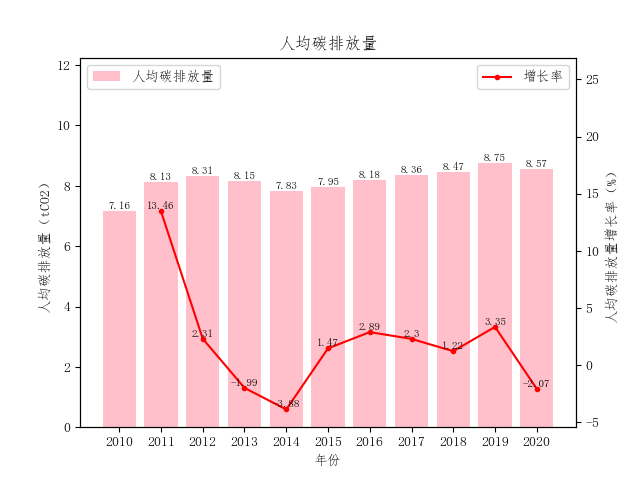
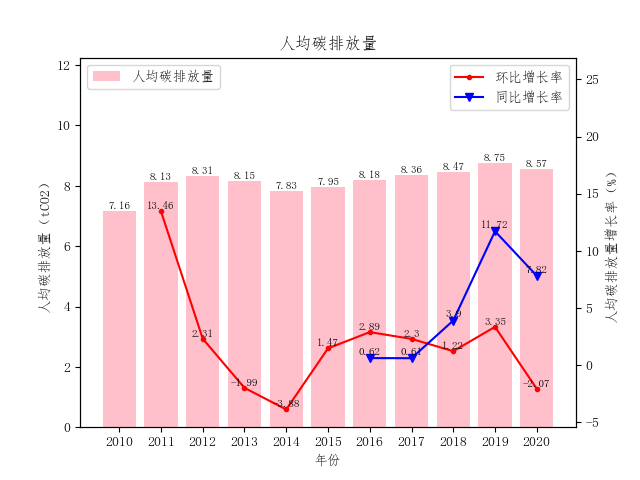
add year-on-year

diff --git a/D.py b/D.py
@@ -19,9 +19,11 @@ def read_population_and_GDP(df):
 
 # 人口和GDP相关图表绘制
 # 数据来自《经济与能源》2-10行
-def plot_population(population, rate, index):
-    rate *= 100
+def plot_population(population, qoq, yoy, index):
+    qoq *= 100
+    yoy *= 100
     x = range(2010, 2021)
+    x2 = range(2016, 2021)
     titles = ['常驻人口及增长率', 'GDP及增长率', '人均GDP及增长率', '能源消费量总量', '碳排放量总量', '人均碳排放量']
     labels = ['常驻人口', 'GDP', '人均GDP', '能源消费量', '碳排放量', '人均碳排放量']
     left_labels = ['常驻人口（万人）', 'GDP（亿元）', '人均GDP（万元）', '能源消费量（万tce）', '碳排放量（万tCO2）',
@@ -45,12 +47,15 @@ def plot_population(population, rate, index):
     ax2 = plt.twinx()
     ax2.set_ylabel(right_labels[index])
     # 设置坐标轴范围
-    mask = np.ma.masked_invalid(rate)
-    ax2.set_ylim([min(0., 1.4 * np.min(mask)), 2 * np.max(mask)])
-    plt.plot(x, mask, marker='.', c='r', label='增长率')
+    mask = np.ma.masked_invalid(qoq)
+    ax2.set_ylim(min(0., 1.4 * np.min(mask), 1.4 * np.min(yoy)), max(2 * np.max(mask), 2 * np.max(yoy)))
+    plt.plot(x, mask, marker='.', c='r', label='环比增长率')
+    plt.plot(x2, yoy, marker='v', c='b', label='同比增长率')
     # 显示数字
-    for a, b in zip(x, rate):
+    for a, b in zip(x, qoq):
         plt.text(a, b, round(b, 2), ha='center', va='bottom', fontsize=8)
+    for a, b in zip(x2, yoy):
+        plt.text(a, b + 0.1, round(b, 2), ha='center', va='bottom', fontsize=8)
     # 在右侧显示图例
     plt.legend(loc="upper right")
 
@@ -181,25 +186,27 @@ if __name__ == '__main__':
     df_economy_and_energy = read_sheet(file_path, '经济与能源')  # 表《经济与能源》中的数据
     df_carbon_emission = read_sheet(file_path, '碳排放')  # 表《碳排放》中的数据
 
-    population_and_GDP = read_population_and_GDP(df_economy_and_energy)
+    population_and_GDP = read_population_and_GDP(df_economy_and_energy).astype(np.float64)
     # 补充2009年常驻人口7810.27万人
-    pre_population = np.insert(population_and_GDP[0][:-1].astype(np.float64), 0, 7810.27)
-    plot_population(population_and_GDP[0], (population_and_GDP[0].astype(np.float64) - pre_population) / pre_population,
-                    0)
+    pre_population = np.insert(population_and_GDP[0][:-1], 0, 7810.27)
+    plot_population(population_and_GDP[0], (population_and_GDP[0] - pre_population) / pre_population,
+                    (population_and_GDP[0][6:] - population_and_GDP[0][1:6]) / population_and_GDP[0][1:6], 0)
 
     # 补充2009年DGP总量34471.70亿元
-    pre_GDP = np.insert(population_and_GDP[1][:-1].astype(np.float64), 0, 34471.70)
-    plot_population(population_and_GDP[1], (population_and_GDP[1].astype(np.float64) - pre_GDP) / pre_GDP, 1)
+    pre_GDP = np.insert(population_and_GDP[1][:-1], 0, 34471.70)
+    plot_population(population_and_GDP[1], (population_and_GDP[1] - pre_GDP) / pre_GDP,
+                    (population_and_GDP[1][6:] - population_and_GDP[1][1:6]) / population_and_GDP[1][1:6], 1)
 
     GDP_by_person = population_and_GDP[1].astype(np.float64) / population_and_GDP[0].astype(np.float64)
     pre_GDP_by_person = np.insert(GDP_by_person[:-1], 0, 34471.70 / 7810.27)
-    plot_population(GDP_by_person, (GDP_by_person - pre_GDP_by_person) / pre_GDP_by_person, 2)
+    plot_population(GDP_by_person, (GDP_by_person - pre_GDP_by_person) / pre_GDP_by_person,
+                    (GDP_by_person[6:] - GDP_by_person[1:6]) / GDP_by_person[1:6], 2)
 
-    energy = read_energy(df_economy_and_energy)
+    energy = read_energy(df_economy_and_energy).astype(np.float64)
     # 补充2009年能源消费量？？？
-    pre_energy = np.insert(energy[0][:-1].astype(np.float64), 0, 0)
-
-    plot_population(energy[0], (energy[0].astype(np.float64) - pre_energy) / pre_energy, 3)
+    pre_energy = np.insert(energy[0][:-1], 0, 0)
+    plot_population(energy[0], (energy[0] - pre_energy) / pre_energy, (energy[0][6:] - energy[0][1:6]) / energy[0][1:6],
+                    3)
 
     plot_economy_structure(population_and_GDP, '地区生产总值结构变化趋势')
 
@@ -219,14 +226,16 @@ if __name__ == '__main__':
     for i, consumption in enumerate(energy_consumption_structure):
         plot_structure_of_consumption(consumption, energy_consumption_title[i])
 
-    carbon_emission = read_carbon_emission(df_carbon_emission)
+    carbon_emission = read_carbon_emission(df_carbon_emission).astype(np.float64)
     # 补充2009年碳排放量？？？
-    pre_carbon_emission = np.insert(carbon_emission[0][:-1].astype(np.float64), 0, 0)
+    pre_carbon_emission = np.insert(carbon_emission[0][:-1], 0, 0)
 
-    plot_population(carbon_emission[0],
-                    (carbon_emission[0].astype(np.float64) - pre_carbon_emission) / pre_carbon_emission, 4)
+    plot_population(carbon_emission[0], (carbon_emission[0] - pre_carbon_emission) / pre_carbon_emission,
+                    (carbon_emission[0][6:] - carbon_emission[0][1:6]) / carbon_emission[0][1:6], 4)
 
     carbon_emission_by_person = carbon_emission[0].astype(np.float64) / population_and_GDP[0].astype(np.float64)
     pre_carbon_emission_by_person = np.insert(carbon_emission_by_person[:-1], 0, 0 / 7810.27)
     plot_population(carbon_emission_by_person, (carbon_emission_by_person - pre_carbon_emission_by_person)
-                    / pre_carbon_emission_by_person, 5)
+                    / pre_carbon_emission_by_person,
+                    (carbon_emission_by_person[6:] - carbon_emission_by_person[1:6]) / carbon_emission_by_person[1:6],
+                    5)
